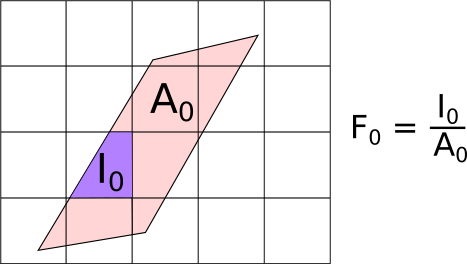
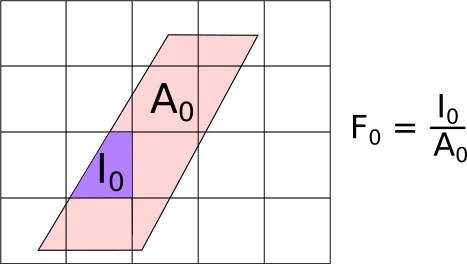
Re #20599 - restored system_test_speed. Updated docs.
Updated pictures for SofQW docs - old bins should be parallelograms
Added equations for signal and error in Rebin and Rebin2D

diff --git a/tools/system_test_speed.py b/tools/system_test_speed.py
@@ -1,0 +1,28 @@
+"""
+Usage system_test_speed.py <build-log> <output-csv>
+
+Given a the raw output from a Jenkins build server log this script will output
+a CSV file of the speed & memory for each system test.
+"""
+import sys
+
+with open(sys.argv[1], 'r') as f:
+    lines = f.readlines()
+
+lines = filter(lambda x: "RESULT|" in x or ": Executing" in x, lines)
+
+# Strip out tests that did not run
+# look ahead and remove tests that have no results
+idxs = []
+for i, (x, y) in enumerate(zip(lines, lines[1::])):
+    if "Executing" in x and "Executing" in y:
+        idxs.append(i)
+lines = [i for j, i in enumerate(lines) if j not in idxs]
+
+with open(sys.argv[2], 'w') as f:
+    f.write("name, time, memory\n")
+    for name, time, memory in zip(lines[::3], lines[1::3], lines[2::3]):
+        name = name.split("Executing")[-1].strip()
+        time = time.split("|1")[-1].strip()
+        memory = memory.split("|")[-1].strip()
+        f.write(", ".join([name, time, memory]) + "\n")

diff --git a/docs/source/algorithms/Rebin-v1.rst b/docs/source/algorithms/Rebin-v1.rst
@@ -26,6 +26,15 @@ be no gaps between bins. Rebin ensures that any of these space filling
 bins cannot be less than 25% or more than 125% of the width that was
 specified.
 
+In both cases, where a new bin only partially overlaps one or more input 
+bins, the new counts are calculated as the sum of the old bins weighted 
+by the fractional overlaping widths of the new bin over the old bin:
+
+.. math:: Y^{\mathrm{new}} = \sum_i Y^{\mathrm{old}}_i F_i
+.. math:: E^{\mathrm{new}} = \sqrt{\sum_i (E^{\mathrm{old}}_i)^2 F_i}
+
+where :math:`F_i = w^{\mathrm{overlap}}_i / w^{\mathrm{old}}_i` is the
+ratio of the overlap width of the new and old bin over the old bin width.
 
 .. _rebin-example-strings:
 
@@ -77,7 +86,6 @@ following will happen:
 -  **From 4** rebin in bins of size 3 **up to 10**.
 
 Hence the actual *Param* string used is "0, 2, 4, 3, 10".
-
 
 
 .. _rebin-usage:

diff --git a/docs/source/algorithms/Rebin2D-v1.rst b/docs/source/algorithms/Rebin2D-v1.rst
@@ -14,8 +14,15 @@ The bin parameters are used to form an output grid. A positive
 create logarithmic binning using the formula
 :math:`x(j+1)=x(j)(1+|\Delta x_i|)\,`. The overlap of the polygons
 formed from the old and new grids is tested to compute the required
-signal weight for the each of the new bins on the workspace. The errors
-are summed in quadrature.
+signal weight for the each of the new bins on the workspace, like in
+:ref:`algm-Rebin`, and the errors are summed in quadrature, as:
+
+.. math:: Y^{\mathrm{new}} = \sum_i Y^{\mathrm{old}}_i F_i
+.. math:: E^{\mathrm{new}} = \sqrt{\sum_i (E^{\mathrm{old}}_i)^2 F_i}
+
+where :math:`F_i = A^{\mathrm{overlap}}_i / A^{\mathrm{old}}_i` is the
+ratio of the overlap area of the new and old bin over the area of the
+old bin.
 
 Requirements
 ------------
